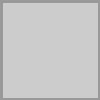
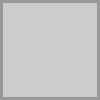
①调整SquareComponent，不使用ItemComponent ②让SquareComponent可以显示数字

Changed region(s): [[0.03, 0.03, 0.99, 0.99]]

diff --git a/src/xyz/view/StartFrame.java b/src/xyz/view/StartFrame.java
@@ -7,8 +7,6 @@ import javax.swing.*;
 import java.util.ArrayList;
 
 public class StartFrame extends JFrame {
-    private final int MAX_BOARD_WIDTH=800;
-    private final int MAX_BOARD_HEIGHT=500;
 
     public StartFrame() {
         setTitle("Select");
@@ -22,15 +20,16 @@ public class StartFrame extends JFrame {
         offline.setLocation(90, 50);
         add(offline);
 
-        JButton customize=new JButton("customize");
+        JButton customize=new JButton("自定义大小");//目前大小就自己输进去，只是为了测试能不能自动改BoardComponent大小
         customize.setSize(120,20);
-        customize.setLocation(100,150);
-        customize.addActionListener(e->initGame(40,1,10));
+        customize.setLocation(60,150);
+        customize.addActionListener(e->initGame(5,36,10));
         add(customize);
         ArrayList<JButton> difButtons = initDifButton();
 
         offline.addActionListener(e -> {
             offline.setVisible(false);
+            customize.setVisible(false);
             for (JButton button : difButtons) {
                 button.setVisible(true);
             }
@@ -38,13 +37,15 @@ public class StartFrame extends JFrame {
     }
 
     private BoardComponent initBoardComponent(int row, int col) {
+        int MAX_BOARD_WIDTH = 1000;
+        int MAX_BOARD_HEIGHT = 600;
         double ratioBoard=((double) MAX_BOARD_WIDTH)/((double) MAX_BOARD_HEIGHT);
         int width, height;
         if(col*ratioBoard>row){
-            height=MAX_BOARD_HEIGHT;
+            height= MAX_BOARD_HEIGHT;
             width=height/col*row;
         }else{
-            width=MAX_BOARD_WIDTH;
+            width= MAX_BOARD_WIDTH;
             height=width/row*col;
         }
         return new BoardComponent(row, col, width, height);

diff --git a/src/xyz/view/SquareComponent.java b/src/xyz/view/SquareComponent.java
@@ -2,25 +2,50 @@ package xyz.view;
 
 import javax.swing.*;
 import java.awt.*;
+import java.io.FileInputStream;
 
 public class SquareComponent extends JPanel {
     //一个方块
     private static Image grid = Toolkit.getDefaultToolkit().getImage("src/xyz/view/pic/emptygrid.png");
     private int size;
+    private static Font font;
+    private int num;
+
+    static {
+        try {
+            font = Font.createFont( Font.TRUETYPE_FONT,
+                    new FileInputStream("src/xyz/view/Font/FrozenNeutra.otf") );
+        } catch(Exception e) {
+            e.printStackTrace();
+        }
+    }
 
     public SquareComponent (int size) {
         setLayout(new GridLayout(1, 1));
         setSize(size, size);
+        font = font.deriveFont(Font.PLAIN, (float) (size/1.4));
         this.size = size;
     }
 
-    @Override
-    protected void paintComponent (Graphics g) {
-        super.paintComponent(g);
-        paintSquare(g);
+    public void setItem(int num){
+        this.num=num;
     }
 
-    private void paintSquare (Graphics g) {
-        g.drawImage(grid, size, size, getWidth() - 2 * size, getHeight() - 2 * size, this);
+    @Override
+    public void paintComponent(Graphics g){
+        super.paintComponent(g);
+        painting(g);
+    }
+
+    private void painting (Graphics g) {
+        int spacing = (int) (getWidth() * 0.05);
+        Image image = ItemUtil.genItem(num);
+        if (image != null) {
+            g.drawImage(image, spacing, spacing, getWidth() - 2 * spacing, getHeight() - 2 * spacing, this);
+        }
+        if(num>0&&num<9){
+            g.setFont(font);
+            g.drawString(""+num ,(int)(size/2.9),(int)(size/1.5));
+        }
     }
 }

diff --git a/src/xyz/view/ItemComponent.java b/src/xyz/view/ItemComponent.java
@@ -30,15 +30,6 @@ public class ItemComponent extends JComponent {
     }
 
     private void painting (Graphics g) {
-        int spacing = (int) (getWidth() * 0.05);
-        Image image = ItemUtil.genItem(num);
 
-        if (image != null) {
-            g.drawImage(image, spacing, spacing, getWidth() - 2 * spacing, getHeight() - 2 * spacing, this);
-        } else {
-            if (num == 0) return;
-            g.setFont(font);
-            g.drawString("" + num, 18, 55);
-        }
     }
 }

diff --git a/src/xyz/view/BoardComponent.java b/src/xyz/view/BoardComponent.java
@@ -53,12 +53,7 @@ public class BoardComponent extends JComponent {
     }
 
     public void setItemAt (BoardLocation location, int num) {
-        removeItemAt(location);
-        getGridAt(location).add(new ItemComponent(num));
-    }
-
-    private void flagGrid (BoardLocation location) {
-
+        getGridAt(location).setItem(num);
     }
 
     // 通过鼠标事件更改：界面 （其他在GameController中改）
